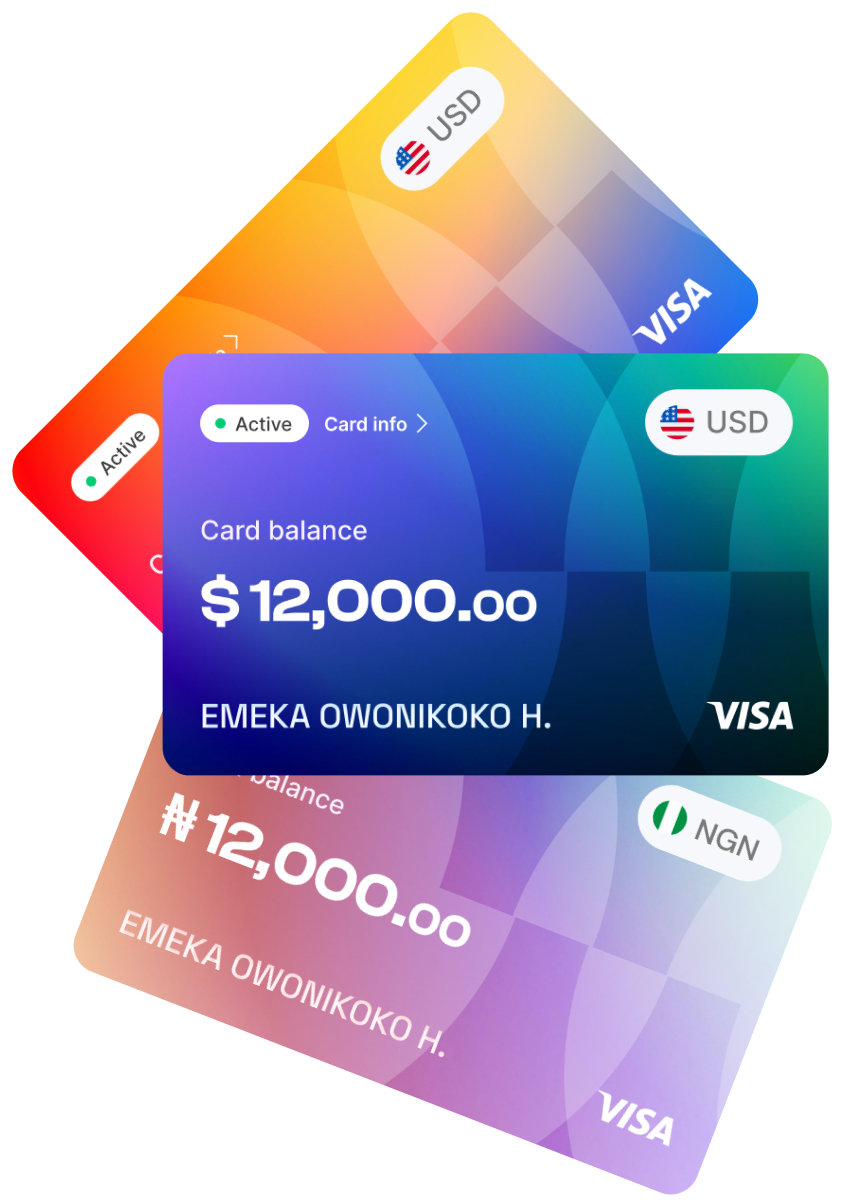
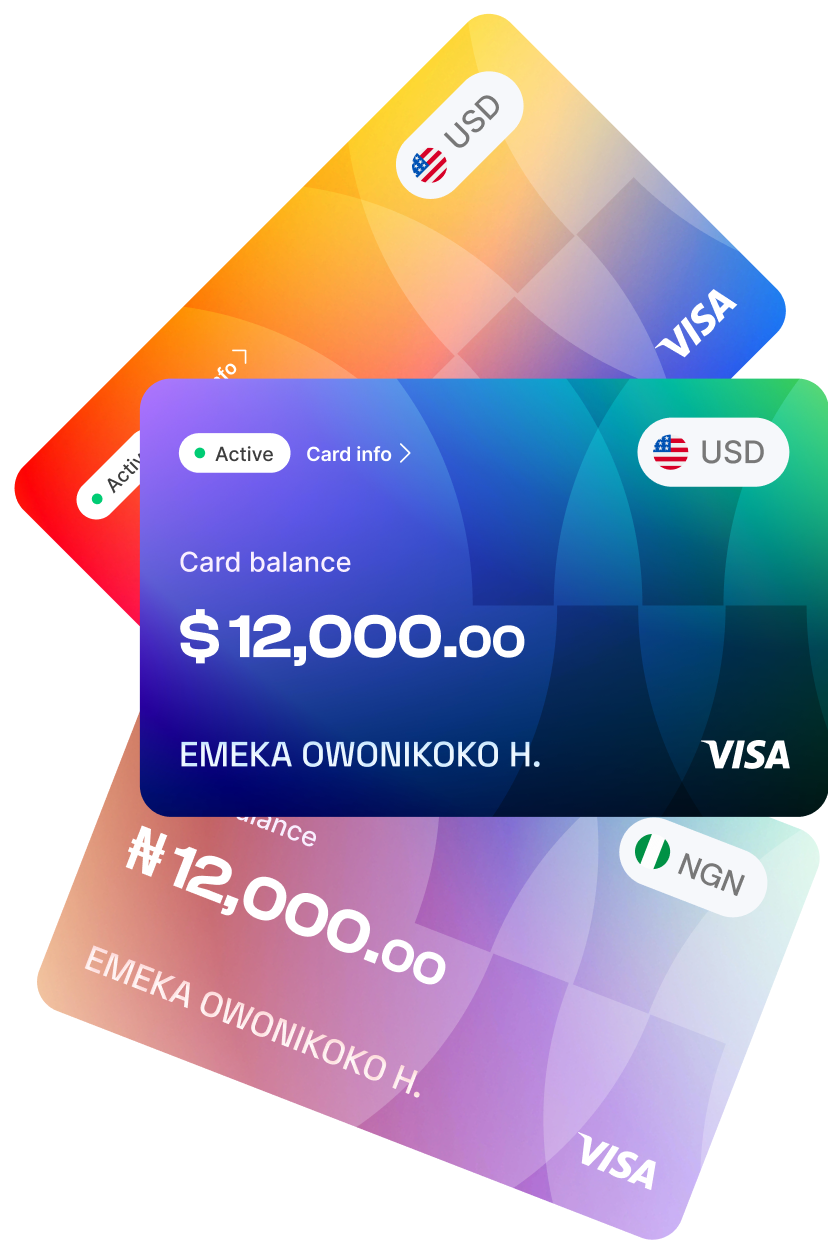
Fixed scrollingcard1.png ❌

diff --git a/src/views/LandingPage/components/waitlist/index.js b/src/views/LandingPage/components/waitlist/index.js
@@ -18,7 +18,7 @@ export default function Waitlist() {
             let response = await(fetch("https://orbitform.onrender.com/signup", {
                 method:'POST',
                 headers:{
-                    'Content-type':"pplication/json"
+                    'Content-type':"application/json"
                 },
                 body:JSON.stringify(data)
             }))
@@ -81,15 +81,15 @@ const Congratulations = ({setShowCongrats}) =>{
                 <img src={congratulations} alt="flower" className='w-24 xl:w-auto block mx-auto'/>
             </div>
 
-            <div className='font-clash-medium text-4xl md:text-2xl lg:text-4xl xl:text-6xl text-dark_blue text-center mt-3 xl:mt-6'>Congratulations</div>
+            <div className='font-clash-medium text-4xl md:text-2xl lg:text-4xl xl:text-6xl text-dark_blue text-center mt-3 xl:mt-4'>Congratulations</div>
 
-            <p className='text-center mt-3 xl:mt-6 leading-loose'>We've added you to our waiting list! We'll let you know <br className='hidden md:block'/>when Orbit Finance  is ready!</p>
+            <p className='text-center mt-3 xl:mt-4 leading-loose'>We've added you to our waiting list! We'll let you know <br className='hidden md:block'/>when Orbit Finance  is ready!</p>
 
             <button className='btn w-full h-14 mt-4 xl:mt-6' onClick={()=>setShowCongrats(false)}>Close</button>
 
             <div className='absolute top-0 left-0 mx-auto w-full'>
                 <lottie-player 
-                src="https://assets10.lottiefiles.com/packages/lf20_da4xcSnZnu.json"  
+                src="https://assets8.lottiefiles.com/packages/lf20_kzP9up3DuF.json"  
                 background="transparent"  
                 speed="1"  
                 style={{width:'100%', height:'300px'}}  

diff --git a/src/views/LandingPage/components/scrollingCards/index.js b/src/views/LandingPage/components/scrollingCards/index.js
@@ -4,7 +4,7 @@ import "slick-carousel/slick/slick.css";
 import "slick-carousel/slick/slick-theme.css";
 import Slider from "react-slick";
 
-import scrollingcard1 from '../../../../assets/static/cards/scrollingcard1.svg'
+import scrollingcard1 from '../../../../assets/static/cards/scrollingcard1.png'
 import scrollingcard2 from '../../../../assets/static/cards/scrollingcard2.svg'
 import scrollingcard3 from '../../../../assets/static/cards/scrollingcard3.svg'
 import scrollingcard4 from '../../../../assets/static/cards/scrollindcard4.svg'
